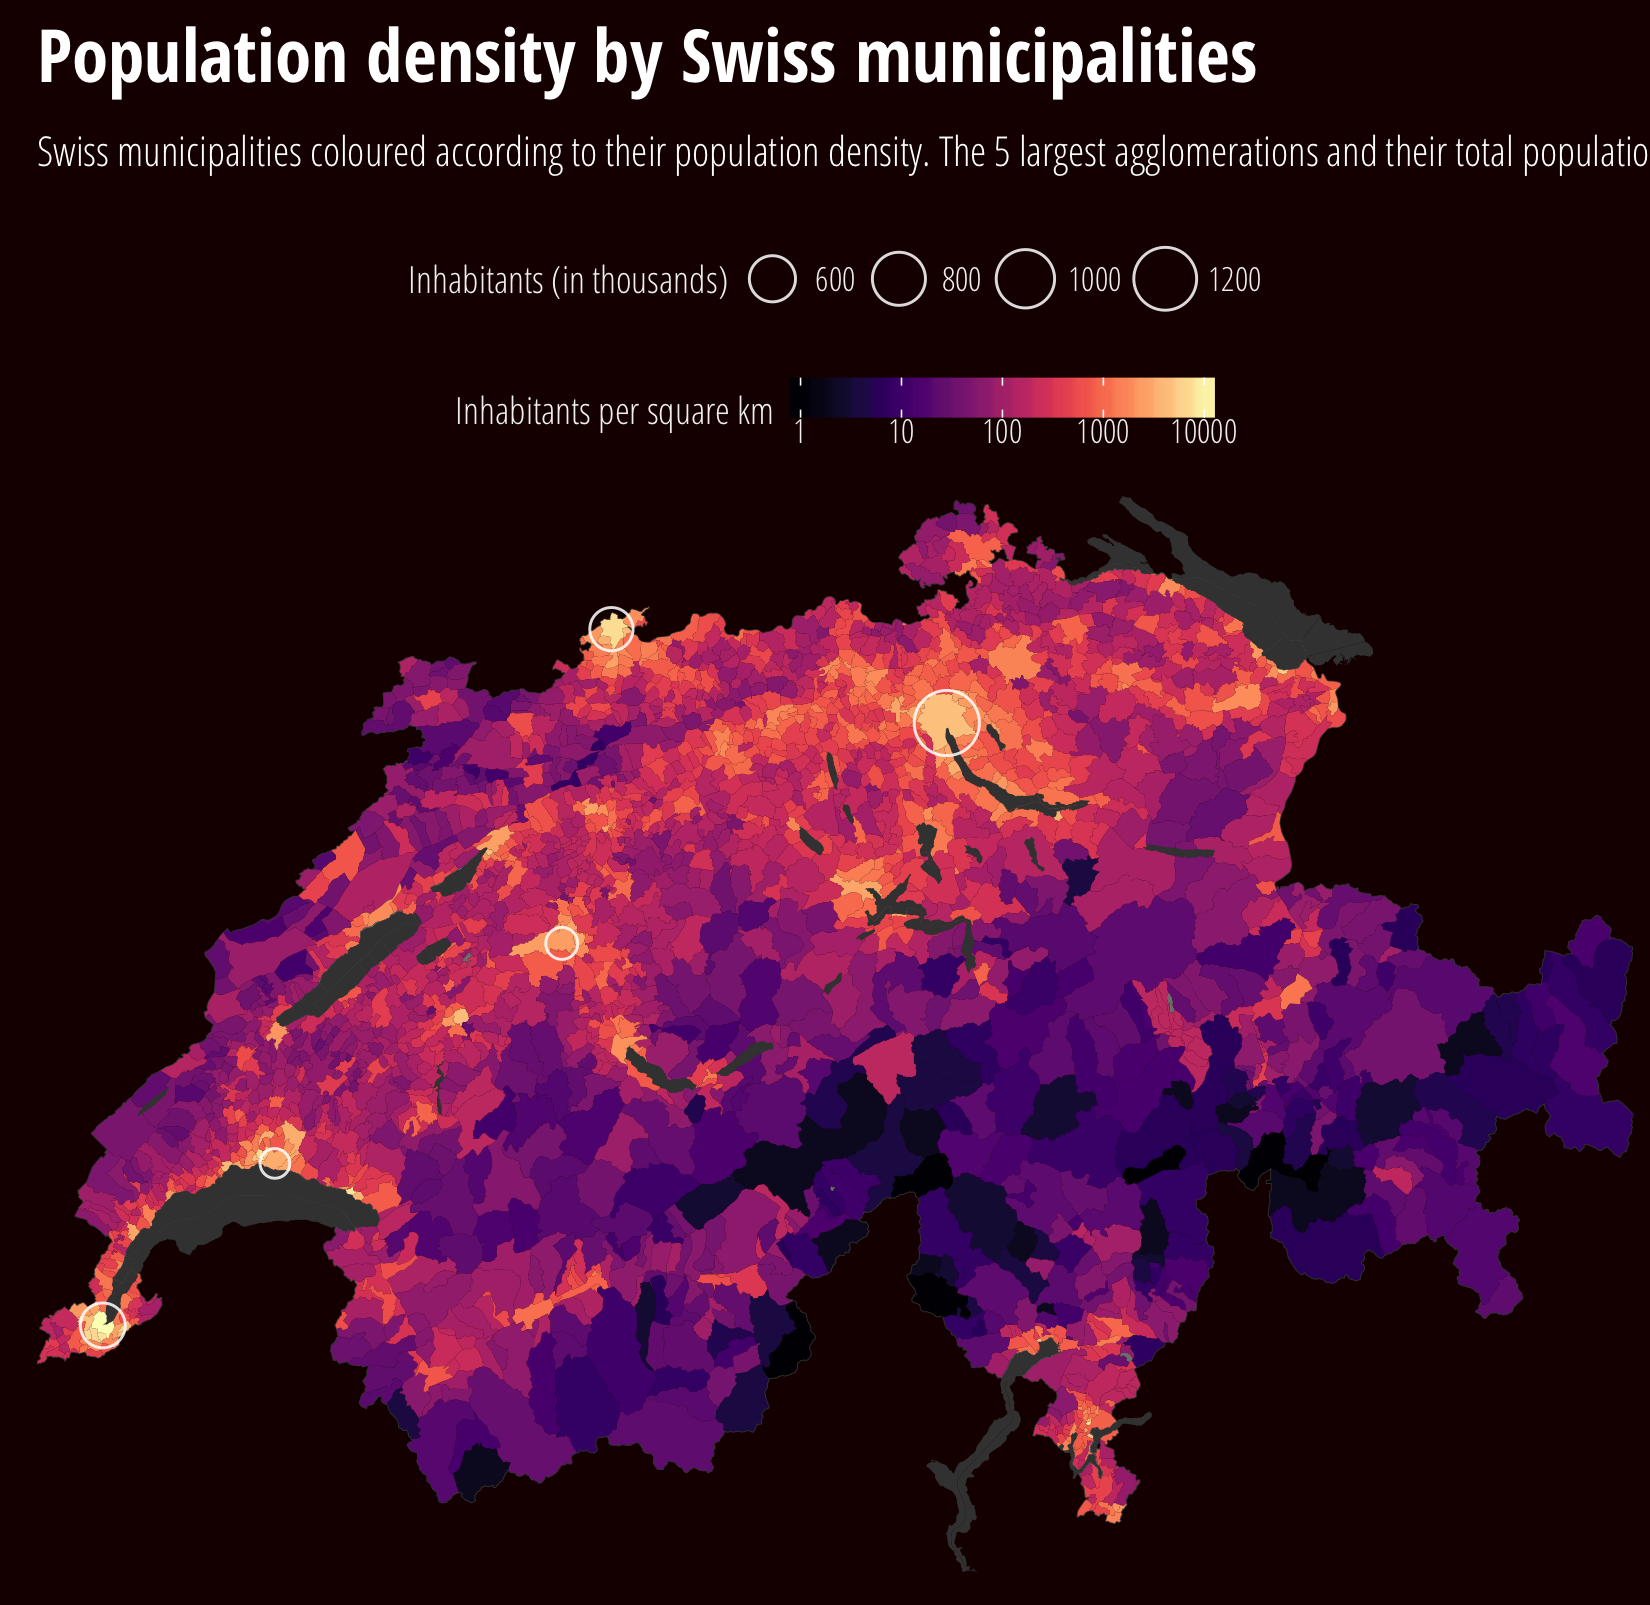
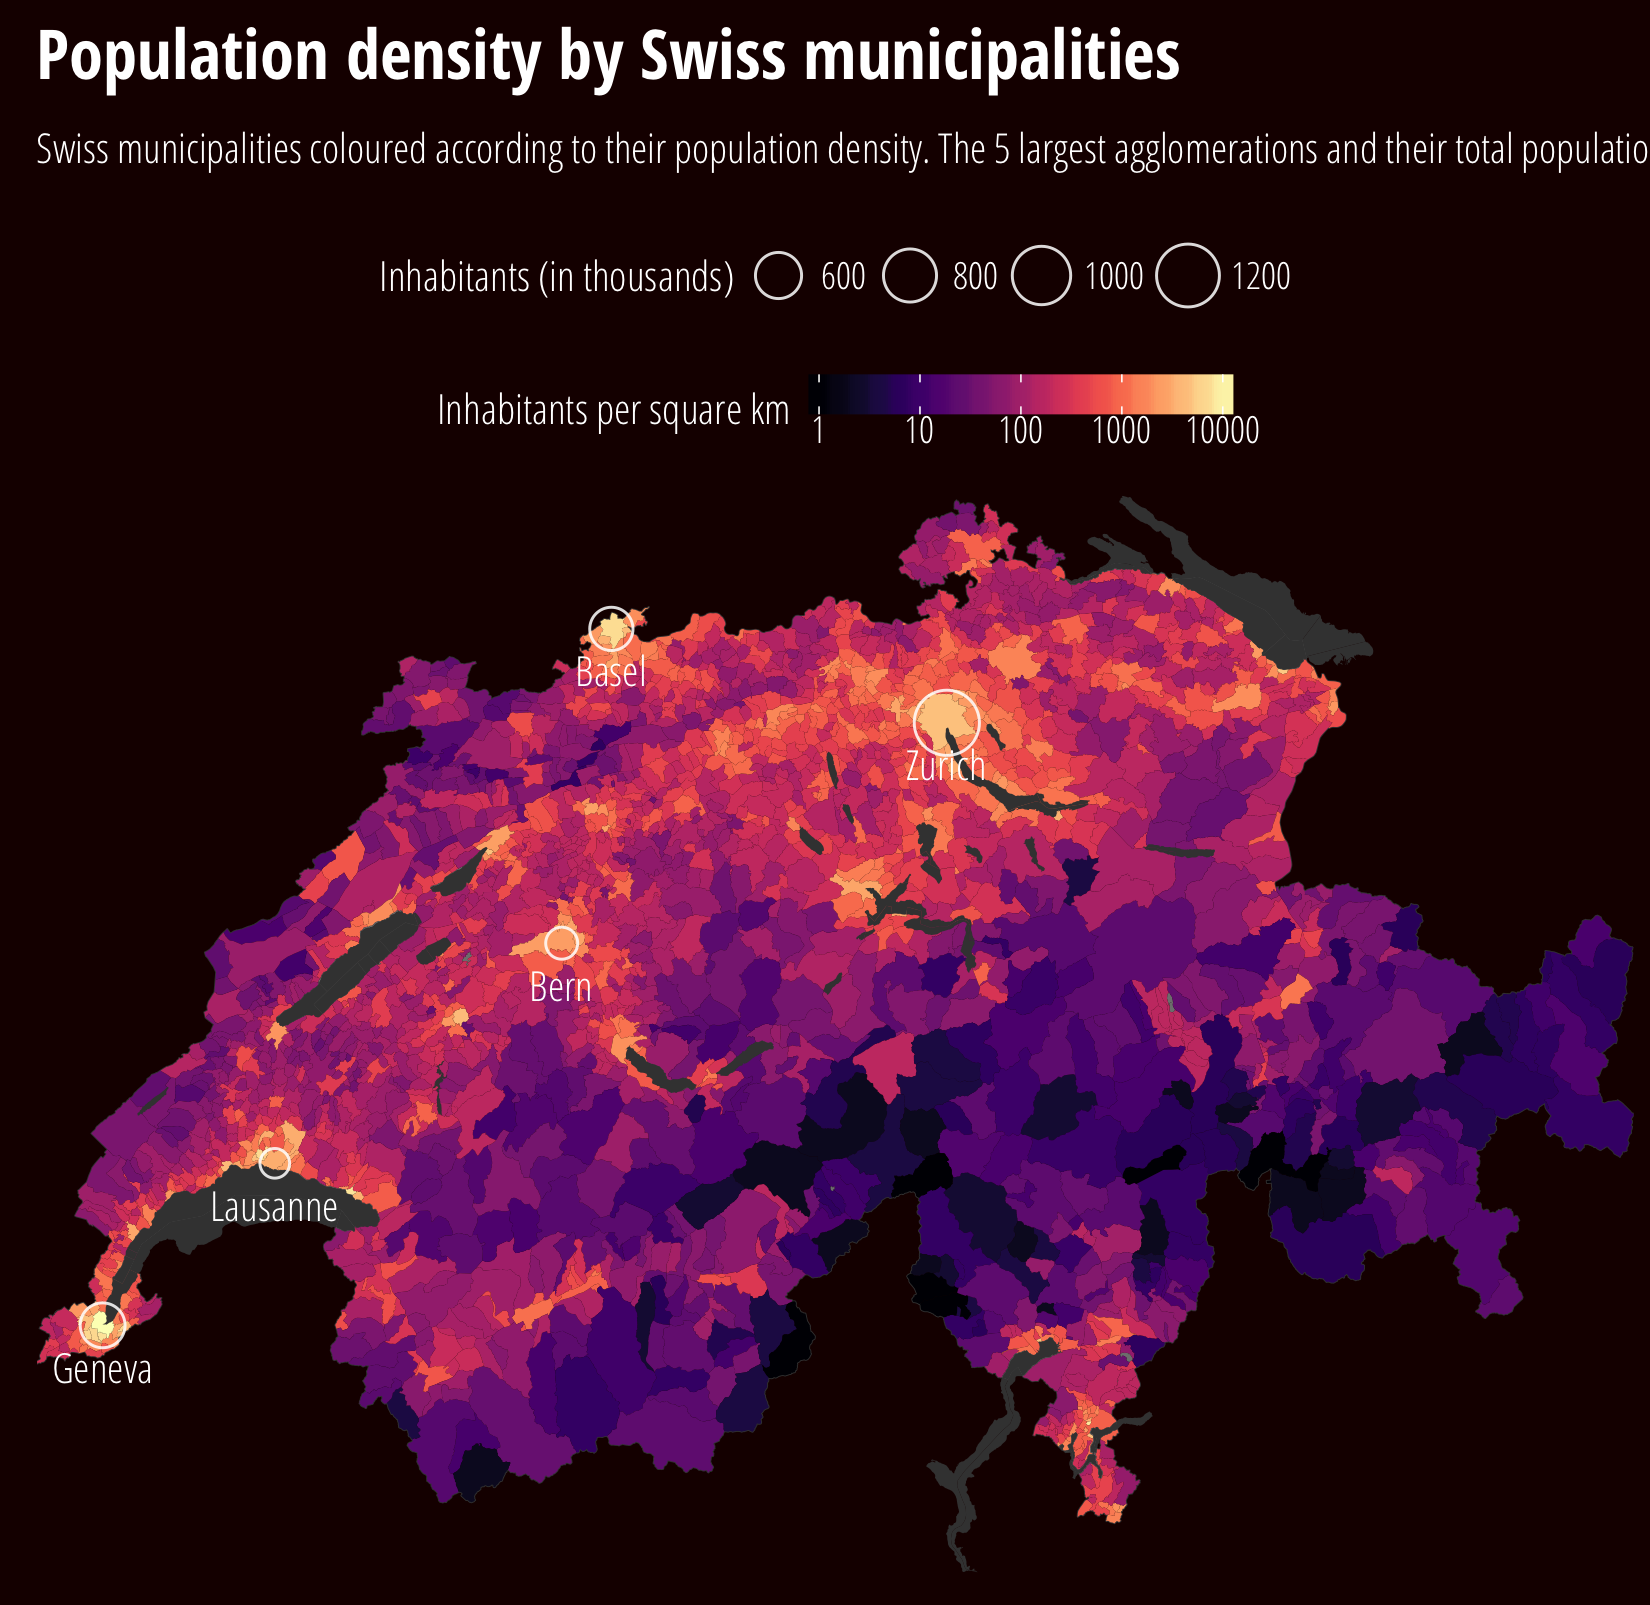
go to sleep

diff --git a/03_createFlickrMap.html b/03_createFlickrMap.html
@@ -123,7 +123,123 @@ $(document).ready(function () {
 </div>
 
 
+<pre class="r"><code># helper mapping 
+bk_mapTheme &lt;- function(
+  base_size = 11, base_family = &quot;OpenSans-CondensedLight&quot;,
+  title_family = &quot;OpenSans-CondensedBold&quot;, subtitle_family = &quot;OpenSans-CondensedLight&quot;,
+  bg.colour = '#1a0000', colour = colourText_bkbg
+ ) {
+     swi_theme(
+       y_gridlines = F, base_size = base_size, base_family = base_family, 
+       title_family = title_family, subtitle = subtitle_family
+     ) + 
+    theme(
+      panel.background = element_rect(fill = bg.colour, size = 0),
+      plot.background = element_rect(fill = bg.colour, size = 0),
+      axis.line = element_blank(),
+      axis.ticks = element_blank(), 
+      axis.title = element_blank(), 
+      axis.text = element_blank(),
+      plot.title = element_text(colour = colour), 
+      plot.subtitle = element_text(colour = &quot;white&quot;),
+      plot.caption = element_text(colour = colour),
+      legend.text = element_text(colour = colourText_bkbg, size = 9, vjust = 2),
+      legend.title = element_text(colour = colourText_bkbg, size = 10),
+      legend.key.width = unit(17, &quot;lines&quot;),
+      legend.key.height = unit(8, &quot;lines&quot;),
+      legend.position = &quot;top&quot;,
+      legend.title.align = 0,
+      plot.margin = unit(c(0.25, 0, 0.1, 0), &quot;cm&quot;)
+    ) 
+}
 
+
+lang &lt;- 'EN'
+
+map1 &lt;- ggplot(co.df) + 
+  bk_mapTheme() + 
+  coord_quickmap(expand = F) + 
+  geom_polygon(
+    aes(x = long, y = lat, group = group), 
+    size = 0.25, alpha = 0, color = border.color) + 
+  geom_polygon(
+    data = lakes.df,  aes(x = long, y = lat, group = group),
+    size = 0, fill = border.color, colour = border.color) +
+  geom_jitter(
+    data = data, aes(x = lon, y = lat, group = 1), 
+    colour = &quot;#e6ffff&quot;, alpha = 0.2, size = 1/10^20) + 
+  labs(title = txt['main.title', lang], subtitle = txt['descr', lang])
+  
+mu.df$densityPop &lt;- densityPop[match(mu.df$BFS_NUMMER, densityPop$OFSKey), 'PopByKm2']
+# hack to put the 0.05 quantile densityPop for NA densityPop muni
+mu.df[which(is.na(mu.df$densityPop) &amp; !is.na(mu.df$EINWOHNERZ)), 'densityPop'] &lt;- quantile(densityPop[,1], 0.05)
+
+largeAgglo$label &lt;- c(txt['Zürich', lang], txt['Genève', lang], 
+                      txt['Basel', lang], txt['Bern', lang], txt['Lausanne', lang])
+
+map2 &lt;- ggplot(co.df) + 
+  bk_mapTheme() + 
+  coord_quickmap(expand = F) + 
+  geom_polygon(
+    aes(x = long, y = lat, group = group), 
+    size = 0.2, alpha = 0, color = border.color
+  ) + 
+  geom_polygon(data = mu.df , 
+    aes(x = lng, y = lat, group = group, fill = log10(densityPop)), 
+    size = 0) + 
+  geom_polygon(
+    data = lakes.df,  aes(x = long, y = lat, group = group),
+    size = 0, fill = border.color, colour = border.color
+  ) +  
+  scale_fill_viridis(
+    name = paste0(txt['popdensity', lang], &quot;  &quot;),
+     labels = as.character(c(10^0, 10^1, 10^2, 10^3, 10^4)),
+    discrete = F, option=&quot;A&quot;, direction = 1
+  ) + 
+  geom_point(
+    data = largeAgglo,
+    aes(x = lon, y = lat, group = 1, size = size),         
+    alpha = 0.85, colour = colourText_bkbg, shape = 1
+  ) + 
+  scale_size(range = c(3,7), name = txt['agglosize', lang]) +
+  geom_text(
+    data = largeAgglo,
+    aes(x = lon, y = lat, group = 1, label = label),
+    family = &quot;OpenSans-CondensedLight&quot;,
+    colour = colourText_bkbg,
+    nudge_y = -0.082,
+    size = 3.5
+  ) +
+  labs(title = txt['title2', lang], subtitle = txt['descr2', lang])
+
+map1.path &lt;- paste0(&quot;01_map_flickr_&quot; , lang, &quot;_01.png&quot;)
+map2.path &lt;- paste0(&quot;01_map_flickr_&quot; , lang, &quot;_02.png&quot;)      
+html.outfile &lt;- paste0(&quot;01_map_flickr_&quot;, lang, &quot;.html&quot;)
+
+source &lt;- paste0( txt['source', lang], &quot;: &quot;,  txt['source.name', lang])
+
+png(map1.path,  res = 300, pointsize = 1, height = 900 * 1.5, width = 1100 * 1.5, bg = '#1a0000')
+map1
+dev.off()     </code></pre>
+<pre><code>## quartz_off_screen 
+##                 2</code></pre>
+<pre class="r"><code>png(map2.path,  res = 300, pointsize = 1, height = 1070 * 1.5, width = 1100 * 1.5, bg = '#1a0000')
+map2
+dev.off()     </code></pre>
+<pre><code>## quartz_off_screen 
+##                 2</code></pre>
+<pre class="r"><code>save_html(
+  tags$html(
+    tags$head(includeHTML(&quot;styles.html&quot;)),
+    tags$body(
+      div(class=&quot;graphic&quot;,
+          img(src = basename(map1.path), width= &quot;100%&quot;),
+          img(src = basename(map2.path), width= &quot;100%&quot;)      
+      ),
+     div(id = &quot;cite&quot;, HTML(source)),
+      HTML(iframeresizer)
+    )), file = html.outfile, background = '#1a0000'
+)</code></pre>
 
 
 
